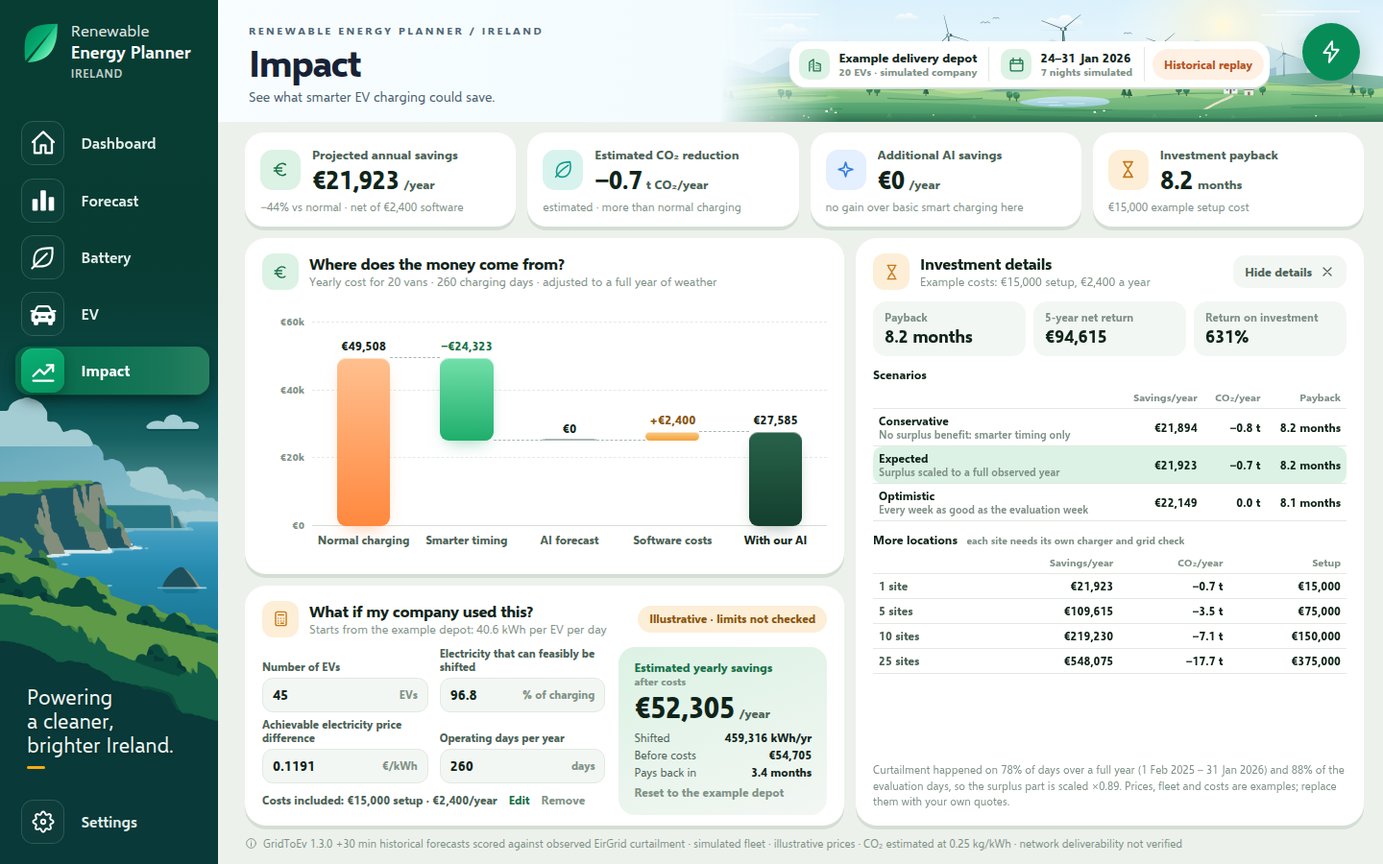
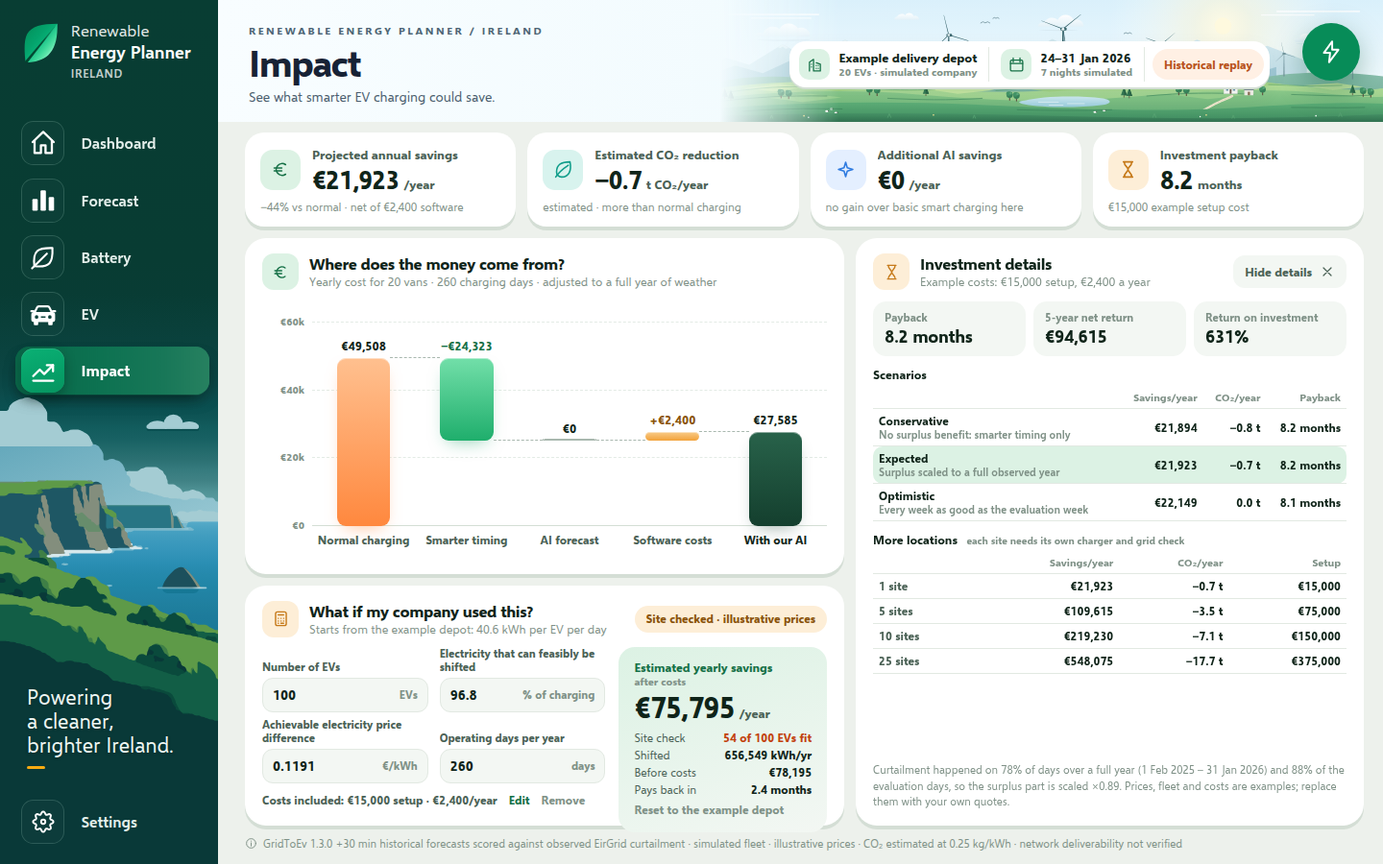
Use the energy bridge for the Impact page's feasibility
Jerry's energy bridge (optimizer.py, #54) is now on main, so the Impact
page uses it as the team's single definition of a feasible plan:

- Every strategy's night plan must pass optimizer.check_plan (plug-in
  hours, charger rate and count, site power, no overfilling). A failing
  plan stops the calculation instead of being shown.
- The calculator plans its EVs on the example site with
  optimizer.run_policy, so the EV count genuinely affects feasibility:
  up to about 56 EVs everything fits, beyond that the 180 kW connection
  is full overnight and savings stop growing. The answer carries a
  `feasibility` block and the page shows it as a site check, with a
  warning when EVs do not fit.

The week-long three-strategy simulation stays in business.py: the bridge
plans one forecast half-hour at a time. Docs, READMEs, fixture and
evidence screenshots updated. Tests: 56 backend and 16 frontend for the
page.

Claude-Session: https://claude.ai/code/session_01RfTe9B7YLtwgkBSipdKd8Q

Changed region(s): [[0.4375, 0.8089, 0.5938, 0.9644], [0.4688, 0.7156, 0.5938, 0.7467], [0.1875, 0.7778, 0.2188, 0.8089]]

diff --git a/frontend/business.js b/frontend/business.js
@@ -273,7 +273,7 @@ bzChart('bzRange', {
 // ---------------------------------------------------------------- calculator
 const BZ_FIELDS = {
   // name: [label, min, max, whole number, unit, explanation]
-  evs: ['Number of EVs', 1, 10000, true, 'EVs', 'Savings grow in proportion: charger and site limits are not checked here.'],
+  evs: ['Number of EVs', 1, 10000, true, 'EVs', 'Planned by the energy bridge on the example site: once its chargers and connection are full, more EVs add nothing.'],
   shiftablePct: ['Electricity that can feasibly be shifted', 0, 100, false, '% of charging', 'Share of each EV\'s daily charging that can move to cheaper or cleaner hours.'],
   priceDiffEurPerKwh: ['Achievable electricity price difference', 0, 1, false, '€/kWh', 'Average saving on each kWh that moves.'],
   operatingDays: ['Operating days per year', 1, 366, true, 'days', 'Days a year the fleet charges.'],
@@ -357,8 +357,20 @@ function bzCalcDetail() {
   const payback = !c.advanced || r.paybackStatus === 'no-investment' ? ''
     : r.paybackStatus === 'months' ? `<li><span>Pays back in</span><b>${bzMonths(r.paybackMonths)}</b></li>`
       : '<li class="is-warn"><span>Payback</span><b>Not achieved</b></li>';
-  return `<ul class="bz-out-list"><li><span>Shifted</span><b>${n(r.shiftedKwhPerYear)} kWh/yr</b></li>
+  return `<ul class="bz-out-list">${bzSiteCheck(r.feasibility)}<li><span>Shifted</span><b>${n(r.shiftedKwhPerYear)} kWh/yr</b></li>
     ${costs ? `<li><span>Before costs</span><b>${bzEur(r.grossSavingsEur)}</b></li>` : ''}${payback}</ul>`;
+}
+// The energy bridge's verdict for these EVs on the example site (chargers, connection, plug-in hours).
+const BZ_LIMITS = {
+  'site-power': (site) => `the site's ${n(site.sitePowerKw)} kW connection is full overnight`,
+  chargers: (site) => `all ${n(site.chargers)} chargers are busy`,
+  'plug-in-hours': () => 'there is not enough plug-in time',
+};
+function bzSiteCheck(f) {
+  if (!f) return '';
+  if (f.vehiclesMet >= f.evs) return `<li title="Planned by the energy bridge on the example site: ${n(f.site.chargers)} × ${n(f.site.chargerKw)} kW chargers, ${n(f.site.sitePowerKw)} kW connection."><span>Site check</span><b>all ${n(f.evs)} EVs fit</b></li>`;
+  const why = (BZ_LIMITS[f.limitedBy] || (() => 'the site is full'))(f.site);
+  return `<li class="is-warn" title="Only energy the example site can deliver overnight is counted: ${escapeHtml(why)}. More EVs need more charging capacity."><span>Site check</span><b>${n(f.vehiclesMet)} of ${n(f.evs)} EVs fit</b></li>`;
 }
 // Whether the figure shown includes costs: taken from the answer on screen, not the toggle.
 function bzCalcBasis() {
@@ -467,7 +479,7 @@ function bzCalcCard(r) {
   }
   return `<section class="dash-card bz-card bz-calc${c.pending ? ' is-pending' : ''}">
     ${bzHead('calc', 'amber', 'What if my company used this?', `Starts from the example depot: ${n(r.company.kwhPerEvDay)} kWh per EV per day`,
-    `<span class="bz-chip is-illustrative" title="An illustrative formula: EVs × ${n(r.company.kwhPerEvDay)} kWh a day × share shifted × price difference × days. Every input changes the result, but charger and site limits are not checked, so savings grow in proportion to the number of EVs.">Illustrative · limits not checked</span>`)}
+    `<span class="bz-chip is-illustrative" title="EVs × ${n(r.company.kwhPerEvDay)} kWh a day × share shifted × price difference × days. Every input changes the result. The energy bridge plans your EVs on the example site (${n(r.company.chargers)} × ${n(r.company.chargerKw)} kW chargers, ${n(r.company.sitePowerKw)} kW connection): charging it cannot fit overnight is not counted. The share and price difference are your assumptions.">Site checked · illustrative prices</span>`)}
     <form class="bz-form" novalidate onsubmit="return false">
       <div class="bz-fields${costs ? ' is-costs' : ''}">${fields}</div>
       <div class="bz-out" aria-live="polite"><span class="bz-out-label">Estimated yearly savings <small class="bz-out-basis">${bzCalcBasis()}</small></span>

diff --git a/frontend/tests/business.test.js b/frontend/tests/business.test.js
@@ -183,6 +183,17 @@ test('server field errors are shown on the calculator', async () => {
   assert.match(run('bzField("evs")'), /Check value<\/em>/, 'long server messages are shortened in the field');
 });
 
+test('the calculator shows the energy bridge site check, and warns when EVs do not fit', () => {
+  const run = load();
+  const site = { chargers: 20, chargerKw: 11, sitePowerKw: 180 };
+  const answer = (feasibility) => ({ shiftedKwhPerYear: 1000, grossSavingsEur: 100, annualCostsEur: 0, implementationEur: 0, paybackStatus: 'no-investment', feasibility });
+  run.set('bz.calc.result', answer({ evs: 20, vehiclesMet: 20, limitedBy: null, site }));
+  assert.match(run('bzCalcDetail()'), /Site check<\/span><b>all 20 EVs fit/);
+  run.set('bz.calc.result', answer({ evs: 100, vehiclesMet: 54, limitedBy: 'site-power', site }));
+  const warn = run('bzCalcDetail()');
+  assert.match(warn, /class="is-warn"[^>]*180 kW connection is full overnight[^>]*><span>Site check<\/span><b>54 of 100 EVs fit/);
+});
+
 test('preparing, failed, empty and ready states render the right content', async () => {
   const run = load({ fetch: () => response(202, { status: 'preparing', progress: { done: 3, total: 9, stage: 'Replaying historical forecasts' } }) });
   await run('bzLoad()');

diff --git a/frontend/index.html b/frontend/index.html
@@ -36,7 +36,7 @@
     <script src="./synthetic.js?v=20260928p" defer></script>
     <script src="./impact.js?v=20260928t" defer></script>
     <script src="./charging.js?v=20260928p" defer></script>
-    <script src="./business.js?v=20260928a" defer></script>
+    <script src="./business.js?v=20260928b" defer></script>
     <script src="./app.js?v=20260928t" defer></script>
     <script src="./chat.js?v=20260928u" defer></script>
   </body>

diff --git a/backend/business.py b/backend/business.py
@@ -21,8 +21,12 @@ What this module guarantees (tests in tests/test_business.py check each point):
   observed year (GridToEv's daily dataset) compared with the evaluation week.
 - The fleet, prices and investment costs are illustrative assumptions and are labelled as such.
   Nothing here is a measured saving.
+- Jerry's energy bridge (optimizer.py, issue #50) is the team's single definition of a feasible plan:
+  every strategy's plan must pass its check_plan(), and the calculator's EV count is planned by it on
+  the example site, so extra EVs only count while the site's chargers and connection can take them.
 """
 from datetime import date, datetime, timedelta, timezone
+from functools import lru_cache
 from http.client import HTTPException
 import hashlib
 import json
@@ -32,6 +36,8 @@ import time
 from urllib.error import URLError
 
 import explorer
+import fleet as fleets
+import optimizer
 from gate import FOREGROUND, PREFETCH, Busy
 from scenario import GRID_INTENSITY_T_PER_MWH
 
@@ -111,16 +117,42 @@ def band_at(minute, tariff=TARIFF):
     raise ValueError('Tariff bands must cover the whole day')
 
 
+def van_hours(i):
+    """(arrive, depart) of the i-th van, in minutes from 00:00 UTC on the night's date."""
+    return 17 * 60 + (i % 6) * 30, 24 * 60 + 6 * 60 + (i % 4) * 30  # plugs in 17:00-19:30, leaves 06:00-07:30
+
+
 def fleet_vehicles(night_index, fleet=FLEET):
     """The simulated depot's vans for one night; times are minutes from 00:00 UTC on the night's date.
 
     Deterministic, so every strategy and every run sees exactly the same fleet."""
-    return [{'id': f'EV-{i + 1:02d}',
-             'arriveMin': 17 * 60 + (i % 6) * 30,  # 17:00-19:30
-             'departMin': 24 * 60 + 6 * 60 + (i % 4) * 30,  # 06:00-07:30 the next morning
+    return [{'id': f'EV-{i + 1:02d}', 'arriveMin': van_hours(i)[0], 'departMin': van_hours(i)[1],
              'requiredKwh': float(28 + (i * 7 + night_index * 5) % 18),  # battery side, 28-45 kWh
              'maxKw': fleet['vehicleMaxKw']}
             for i in range(fleet['vehicles'])]
+
+
+def example_site(fleet=FLEET):
+    """The simulated depot as an energy-bridge site (fleet/v1)."""
+    return {'id': 'depot', 'name': fleet['name'], 'region': 'IE', 'chargers': fleet['chargers'],
+            'chargerKw': fleet['chargerKw'], 'sitePowerKw': fleet['sitePowerKw']}
+
+
+def bridge_fleet(vehicles, start_minute, fleet=FLEET):
+    """Vans as a validated fleet/v1 for the energy bridge, with times counted from `start_minute`."""
+    return fleets.validate({'chargingEfficiency': fleet['chargingEfficiency'], 'sites': [example_site(fleet)],
+                            'vehicles': [{'id': v['id'], 'site': 'depot', 'arriveMin': v['arriveMin'] - start_minute,
+                                          'departMin': v['departMin'] - start_minute, 'requiredKwh': v['requiredKwh'],
+                                          'maxKw': v['maxKw']} for v in vehicles]})
+
+
+def bridge_check(plan, slots, vehicles, fleet=FLEET):
+    """Every hard-constraint problem in a night plan, found by the energy bridge's own checker
+    (optimizer.check_plan): plug-in hours, charger rate, charger count, site power, no overfilling."""
+    checked = optimizer.Plan(bridge_fleet(vehicles, slots[0]['minute'], fleet), len(slots))
+    for vid, row in plan.items():
+        checked.alloc[vid] = {i: kwh for i, kwh in enumerate(row) if kwh > 0}
+    return optimizer.check_plan(checked)
 
 
 def grid_kwh_per_ev_day(fleet=FLEET):
@@ -271,6 +303,9 @@ def evaluate(nights, fleet=FLEET, tariff=TARIFF):
         scores = {}
         for sid in STRATEGY_IDS:
             plan, decisions = plan_night(sid, night['slots'], vehicles, known, fleet, tariff)
+            problems = bridge_check(plan, night['slots'], vehicles, fleet)
+            if problems:  # a bug, never data: refuse rather than show an infeasible plan
+                raise RuntimeError(f'{sid} plan for {night["date"]} failed the energy bridge check: {problems[0]}')
             plans[sid] = plan
             scores[sid] = score_night(plan, night['slots'], vehicles, night['observed'], fleet, tariff)
             per[sid].append(scores[sid])
@@ -463,6 +498,7 @@ def methodology(fleet, tariff, days):
         f"departures and energy needs, {fleet['chargers']} x {fleet['chargerKw']:g} kW chargers and a {fleet['sitePowerKw']:g} kW site limit.",
         'Our AI sees only the GridToEv forecast issued 30 minutes before each half-hour; it never sees later forecasts or what actually happened.',
         f"Grid energy includes charging losses: battery energy / {fleet['chargingEfficiency']:g} efficiency.",
+        'Every plan passes the energy bridge\'s constraint checker (plug-in hours, charger rate and count, site power).',
         f"Money: illustrative tariff (night EUR {night:g}, day EUR {day:g}, peak EUR {peak:g} per kWh) minus EUR "
         f"{tariff['surplusDiscountEurPerKwh']:g} per kWh used during observed curtailment.",
         'Surplus renewable energy: charging that coincided with observed curtailment, capped by that charging. It is not verified '
@@ -479,7 +515,8 @@ LIMITATIONS = [
     'Forecasts are historical replays of GridToEv, not live predictions; outcomes are observed EirGrid values from the same dataset.',
     'Whether a real site could absorb curtailed energy depends on its grid location and is not verified.',
     'Emissions use a flat grid average, not a marginal emission factor per half-hour.',
-    "The charging rules here are the Impact page's own simulation; the energy bridge optimiser (issue #50) is not merged yet.",
+    ('The three strategies are this page\'s own week-long simulation; the energy bridge (issue #50) plans one forecast '
+     'window at a time. Every plan here passes the bridge\'s constraint checker.'),
 ]
 
 
@@ -526,13 +563,52 @@ def parse_estimate(query):
     return values, errors
 
 
-def estimate(evs, shiftablePct, priceDiffEurPerKwh, operatingDays, implementationEur=0.0, annualEur=0.0, fleet=FLEET):
-    """Yearly savings for another fleet: EVs x daily grid kWh per EV x shiftable share x price difference x days.
+FEASIBILITY_START_MINUTE = 17 * 60  # overnight plans start at 17:00, when the first vans plug in
 
-    Illustrative: the energy per EV comes from the simulated depot, and charger or site limits are not
-    checked, so savings scale linearly with the number of EVs."""
+
+@lru_cache(maxsize=256)
+def _feasibility(evs):
+    fleet = FLEET
+    n = max(1, min(evs, fleets.MAX_VEHICLES))
+    need = grid_kwh_per_ev_day(fleet) * fleet['chargingEfficiency']  # the depot's average battery kWh per van
+    vans = [{'id': f'EV-{i + 1:03d}', 'arriveMin': van_hours(i)[0], 'departMin': van_hours(i)[1],
+             'requiredKwh': need, 'maxKw': fleet['vehicleMaxKw']} for i in range(n)]
+    planned = bridge_fleet(vans, FEASIBILITY_START_MINUTE, fleet)
+    plan = optimizer.run_policy(planned, fleets.slot_count(planned), optimizer.OPTIMIZED)
+    problems = optimizer.check_plan(plan)
+    if problems:
+        raise RuntimeError(f'Energy bridge plan is infeasible: {problems[0]}')
+    eff = fleet['chargingEfficiency']
+    delivered = sum(sum(row.values()) for row in plan.alloc.values())
+    met = sum(1 for v in vans if sum(plan.alloc[v['id']].values()) * eff >= v['requiredKwh'] - 1e-6)
+    blocked = {code: sum(b.get(key, 0) for b in plan.blocked.values())
+               for code, key in (('site-power', 'sitePower'), ('chargers', 'chargers'))}
+    limited = None if met == evs else max(blocked, key=blocked.get) if any(blocked.values()) else 'plug-in-hours'
+    return (('checkedBy', optimizer.SOLVER_ID), ('evsPlanned', n), ('vehiclesMet', met),
+            ('deliverableKwhPerDay', delivered), ('limitedBy', limited))
+
+
+def feasibility(evs, fleet=FLEET):
+    """What the example site can really charge overnight for `evs` vans, planned by the energy bridge.
+
+    optimizer.run_policy plans every van at the depot's average need on its 20 chargers and 180 kW
+    connection within each van's plug-in hours, and check_plan() proves the plan. Above the bridge's
+    200-vehicle limit the site is long full, so 200 are planned and the rest add nothing."""
+    result = dict(_feasibility(int(evs)))
+    result['site'] = example_site(fleet)
+    return result
+
+
+def estimate(evs, shiftablePct, priceDiffEurPerKwh, operatingDays, implementationEur=0.0, annualEur=0.0, fleet=FLEET):
+    """Yearly savings for another fleet, at the example site.
+
+    energy = what the energy bridge can deliver overnight to these EVs at the example site (their
+    need, capped by its chargers and connection); savings = energy x share shifted x price difference
+    x days. The share and price difference are the user's assumptions, so the result is illustrative."""
     kwh = grid_kwh_per_ev_day(fleet)
-    shifted = evs * kwh * shiftablePct / 100 * operatingDays
+    site = feasibility(evs, fleet)
+    energy = min(evs * kwh, site['deliverableKwhPerDay'])
+    shifted = energy * shiftablePct / 100 * operatingDays
     gross = round(shifted * priceDiffEurPerKwh)
     running, implementation = round(annualEur), round(implementationEur)
     net = gross - running
@@ -545,11 +621,14 @@ def estimate(evs, shiftablePct, priceDiffEurPerKwh, operatingDays, implementatio
     return {'version': VERSION, 'illustrative': True, 'kwhPerEvDay': round(kwh, 1), 'shiftedKwhPerYear': round(shifted),
             'grossSavingsEur': gross, 'annualCostsEur': running, 'yearlySavingsEur': net,
             'implementationEur': implementation, 'paybackMonths': payback, 'paybackStatus': status,
-            'effects': {'evs': 'Scales the result in proportion: charger and site limits are not checked here.',
+            'feasibility': {**site, 'evs': int(evs), 'deliverableKwhPerDay': round(energy, 1),
+                            'requiredKwhPerDay': round(evs * kwh, 1), 'deliverableShare': round(energy / (evs * kwh), 4)},
+            'effects': {'evs': 'Planned by the energy bridge on the example site: once its chargers and connection are full, more EVs add nothing.',
                         'shiftablePct': 'Share of each EV\'s daily charging that can move to cheaper hours.',
                         'priceDiffEurPerKwh': 'Average saving on each shifted kWh.',
                         'operatingDays': 'Days a year the fleet charges.'},
-            'note': (f'Illustrative estimate: {kwh:.1f} kWh per EV per day from the simulated depot. Not a feasibility check.')}
+            'note': (f'{kwh:.1f} kWh per EV per day from the simulated depot, checked against the example site\'s '
+                     f'{fleet["chargers"]} chargers and {fleet["sitePowerKw"]:g} kW connection. Prices are your assumptions.')}
 
 
 # ---------------------------------------------------------------- data

diff --git a/backend/tests/test_business.py b/backend/tests/test_business.py
@@ -150,6 +150,23 @@ class StrategyTests(unittest.TestCase):
             self.assertGreater(s['unmetKwh'], 0, sid)
             self.assertLessEqual(s['peakKw'], 40 + 1e-9)
 
+    def test_every_plan_passes_the_energy_bridge_checker(self):
+        for n in (night(surplus=NIGHT_SURPLUS), night(surplus=list(range(slot_of(23), slot_of(1))), forecast=[]), night()):
+            made, vehicles = plans(n)
+            for sid, plan in made.items():
+                self.assertEqual(business.bridge_check(plan, n['slots'], vehicles), [], sid)
+
+    def test_the_energy_bridge_checker_catches_an_infeasible_plan(self):
+        n = night()
+        made, vehicles = plans(n)
+        plan = {vid: list(row) for vid, row in made['normal'].items()}
+        plan['EV-01'][0] = 5.0  # charging at 12:00, hours before the van arrives
+        problems = business.bridge_check(plan, n['slots'], vehicles)
+        self.assertTrue(any('not plugged in' in p for p in problems), problems)
+        with patch('business.plan_night', return_value=(plan, [])):
+            with self.assertRaises(RuntimeError):
+                business.evaluate([n])
+
     def test_unknown_strategy_is_rejected(self):
         n = night()
         with self.assertRaises(ValueError):
@@ -423,6 +440,21 @@ class CalculatorTests(unittest.TestCase):
         self.assertEqual(r['yearlySavingsEur'], r['grossSavingsEur'])
         self.assertEqual(r['paybackStatus'], 'no-investment')
         self.assertTrue(r['illustrative'])
+
+    def test_ev_count_is_checked_against_the_example_site_by_the_energy_bridge(self):
+        small, crowded, huge = (business.estimate(n, 50, 0.1, 200) for n in (20, 100, 10000))
+        self.assertEqual((small['feasibility']['vehiclesMet'], small['feasibility']['deliverableShare']), (20, 1.0))
+        self.assertIsNone(small['feasibility']['limitedBy'])
+        self.assertLess(crowded['feasibility']['vehiclesMet'], 100)
+        self.assertLess(crowded['feasibility']['deliverableShare'], 1)
+        self.assertEqual(crowded['feasibility']['limitedBy'], 'site-power')  # 180 kW binds before 20 chargers
+        self.assertLess(crowded['grossSavingsEur'], 5 * small['grossSavingsEur'], 'extra EVs beyond the site add less')
+        self.assertEqual(huge['grossSavingsEur'], business.estimate(200, 50, 0.1, 200)['grossSavingsEur'], 'a full site adds nothing')
+        self.assertEqual(huge['feasibility']['evsPlanned'], 200)
+        self.assertEqual(small['feasibility']['checkedBy'], business.optimizer.SOLVER_ID)
+        # The site can deliver no more than its connection allows over the night.
+        night_hours = (business.van_hours(3)[1] - business.FEASIBILITY_START_MINUTE) / 60
+        self.assertLessEqual(crowded['feasibility']['deliverableKwhPerDay'], business.FLEET['sitePowerKw'] * night_hours + 1e-6)
 
     def test_every_input_changes_the_result(self):
         base = business.estimate(20, 50, 0.1, 200)['yearlySavingsEur']

diff --git a/docs/BUSINESS_IMPACT.md b/docs/BUSINESS_IMPACT.md
@@ -21,14 +21,22 @@ measured saving, and the page says so in its header chip, card footnotes and foo
 | What actually happened | Observed EirGrid curtailment for the same half-hours (`/actuals/v1/window`) | historical observation |
 | How often surplus happens over a year | GridToEv's daily curtailment dataset: observed curtailment days over the latest 365 days | historical observation |
 | Fleet, chargers, site limit | Simulated depot (below) | simulated |
-| Charging plan | Three rule sets in `business.plan_night` (below) | simulation |
+| Charging plan | Three rule sets in `business.plan_night` (below), each plan verified by the energy bridge's `optimizer.check_plan` | simulation |
+| Calculator feasibility | Jerry's energy bridge (`optimizer.run_policy`) plans the EVs on the example site | simulation |
 | Prices, software and setup costs | Example values (below) | illustrative |
 | CO2 | Flat grid average, `scenario.GRID_INTENSITY_T_PER_MWH` (0.25 t/MWh), the same factor the Battery page uses | estimated |
 
-Jerry's energy-bridge optimiser (issue #50, PRs #52 and #54) is not merged yet, so this page does not
-use it. `business.py` keeps the same physical rules (whole plugged-in half-hours, charger count, site
-power limit, 90% charging efficiency with the loss counted, never overfilling a van) and is written so
-its AI strategy can be replaced by the bridge's allocation once that lands.
+Jerry's energy bridge (`backend/optimizer.py`, issue #50) is the team's single definition of a feasible
+plan, and this page uses it twice:
+
+- **Every strategy's plan must pass the bridge's `check_plan()`** (plug-in hours, charger rate and count,
+  site power, never overfilling a van). A plan that fails is a bug: the calculation stops and the page
+  shows its error state rather than an infeasible plan.
+- **The calculator's EV count is planned by the bridge** (`run_policy`, below), so extra EVs only count
+  while the example site's chargers and connection can take them.
+
+The three strategies themselves are this page's own week-long simulation: the bridge plans one forecast
+half-hour at a time and has no no-look-ahead week to replay.
 
 ## Evaluation period
 
@@ -123,14 +131,22 @@ Multi-site scaling multiplies one site's figures; each site still needs its own 
 
 ## What-if calculator
 
-`yearly savings = EVs × grid kWh per EV per day × share shifted × price difference × operating days`,
-minus the optional yearly cost, with payback from the optional one-off cost. Grid kWh per EV per day
-(40.6) comes from the simulated depot. The defaults reproduce the depot (the price difference is derived
-from the simulation), so the calculator starts where the page does.
+```
+energy per day  = what the energy bridge can deliver overnight to N EVs at the example site
+                  (each needs the depot's average 40.6 kWh from the grid; 20 × 11 kW chargers, 180 kW)
+yearly savings  = energy per day × share shifted × price difference × operating days − yearly cost
+payback         = one-off cost ÷ yearly savings × 12
+```
 
-It is **illustrative**: charger and site limits are not checked, so savings grow in proportion to the
-number of EVs. Every input changes the result (tested). Inputs are validated in the browser for
-feedback and again on the server, which is authoritative.
+The EV count therefore **genuinely affects feasibility**: up to about 56 EVs everything fits; beyond
+that the 180 kW connection is full overnight, fewer EVs charge fully and the savings stop growing. The
+answer's `feasibility` says how many EVs fit and what limited them, and the page shows it as a site
+check. The bridge plans at most 200 vehicles; by then the site is long full, so more EVs add nothing.
+
+The share shifted and the price difference are the user's assumptions, so the result stays
+**illustrative**. The defaults reproduce the depot (the price difference is derived from the simulation),
+so the calculator starts where the page does. Every input changes the result (tested). Inputs are
+validated in the browser for feedback and again on the server, which is authoritative.
 
 ## API
 
@@ -193,7 +209,7 @@ Example strategy (historical replay against a local mock of GridToEv, not hosted
 | `operatingDays` | whole number, 1-366 |
 | `implementationEur`, `annualEur` (optional) | 0-10,000,000 and 0-1,000,000 |
 
-`200 {"illustrative": true, "kwhPerEvDay", "shiftedKwhPerYear", "grossSavingsEur", "annualCostsEur", "yearlySavingsEur", "implementationEur", "paybackMonths", "paybackStatus": "months" | "not-achieved" | "no-investment", "effects", "note"}`,
+`200 {"illustrative": true, "kwhPerEvDay", "shiftedKwhPerYear", "grossSavingsEur", "annualCostsEur", "yearlySavingsEur", "implementationEur", "paybackMonths", "paybackStatus": "months" | "not-achieved" | "no-investment", "feasibility": {"checkedBy", "site", "evs", "evsPlanned", "vehiclesMet", "deliverableKwhPerDay", "requiredKwhPerDay", "deliverableShare", "limitedBy": null | "site-power" | "chargers" | "plug-in-hours"}, "effects", "note"}`,
 or `400 {"error": {"code": "INVALID_REQUEST", "fields": {"evs": "Number of EVs must be between 1 and 10,000."}}}`.
 
 The page only lets the newest request update the screen, for both routes.
@@ -207,4 +223,5 @@ The page only lets the newest request update the screen, for both routes.
 - Emissions use a flat grid average, not a marginal emission factor per half-hour.
 - The AI strategy is a transparent rule set on one forecast horizon, not a proven optimum; it can do no
   better than the basic rule when surplus lasts all night, and worse when the forecast misses surplus.
-- The calculator does not check charger or site limits.
+- The calculator checks feasibility on the example site only (20 chargers, 180 kW); a real site needs its
+  own chargers and connection entered or planned.

diff --git a/frontend/README.md b/frontend/README.md
@@ -129,9 +129,10 @@ all draw the backend's figures, so they agree to the euro. Contract and methodol
   negative and positive steps and a tooltip on each bar (hover or keyboard focus).
 - **Is our AI making a difference?**: normal, basic smart and AI charging on one metric (Money, CO₂ or
   Renewable energy), whether each met every van's requirement, and how often the forecast was right.
-- **What if my company used this?**: an illustrative calculator (EVs, share shifted, price difference,
-  operating days, optional costs) answered by `/api/v1/business/estimate`. Typing only repaints the
-  output, so focus is never lost, and only the newest answer is shown.
+- **What if my company used this?**: a calculator (EVs, share shifted, price difference, operating days,
+  optional costs) answered by `/api/v1/business/estimate`. The EVs are planned by the energy bridge on
+  the example site, so a site check shows how many fit; prices stay illustrative. Typing only repaints
+  the output, so focus is never lost, and only the newest answer is shown.
 - **View investment details**: payback, 5-year return, conservative/expected/optimistic scenarios and
   multi-site scaling, over the right-hand column (Escape closes it).
 

diff --git a/backend/README.md b/backend/README.md
@@ -296,8 +296,10 @@ V1 +30 minute replays, with no look-ahead, and are scored against observed curta
 (illustrative tariff), estimated CO2 and surplus renewable energy. The year is scaled by how often
 curtailment happened over a full observed year (V2 daily dataset). The first request returns HTTP 202
 with progress while the week is replayed (the server also starts this at launch, at prefetch priority);
-the result is then cached. A model outage gives a labelled simulated example. Full contract,
-methodology and limitations: [docs/BUSINESS_IMPACT.md](../docs/BUSINESS_IMPACT.md).
+the result is then cached. A model outage gives a labelled simulated example. Every plan passes the
+energy bridge's `optimizer.check_plan`, and the calculator plans its EVs on the example site with
+`optimizer.run_policy`. Full contract, methodology and limitations:
+[docs/BUSINESS_IMPACT.md](../docs/BUSINESS_IMPACT.md).
 
 ## Dashboard V1 target and synthetic scenarios
 
